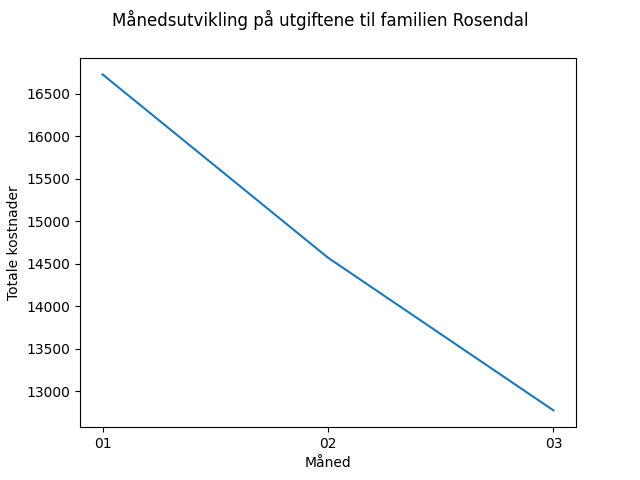
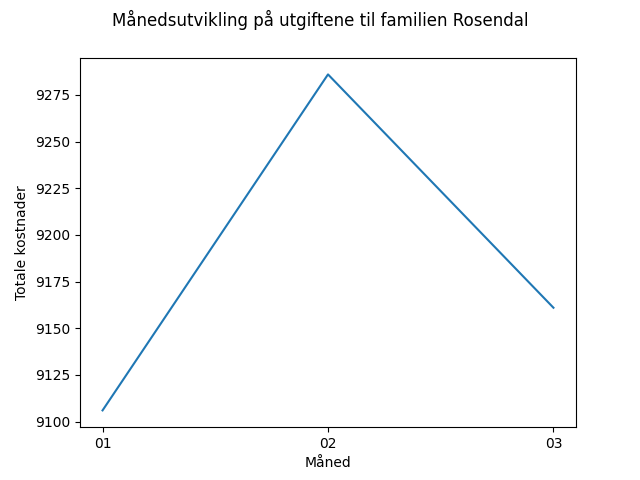
tja

diff --git a/heldags/oppgave-10/main.py b/heldags/oppgave-10/main.py
@@ -2,6 +2,7 @@ import pandas as pd
 from matplotlib import pyplot as plt
 from verktøy import hent_absolutt_bane, hent_måned
 
+
 def print_total_per_type(df: pd.DataFrame):
     """Deloppgave a."""
 
@@ -33,9 +34,12 @@ def lag_månedsutviklingsgraf(df: pd.DataFrame):
     x_verdier = sorted(måneder)
     y_verdier = []
 
+    hverdagsutgifter = {"mat", "klær"}
+
     # Hent månedskostnad per måned
     for måned in x_verdier:
-        y_verdier.append(df[df["Dato"].map(hent_måned) == måned]["Beløp"].sum())
+        riktig_måned = df[df["Dato"].map(hent_måned) == måned]
+        y_verdier.append(riktig_måned[riktig_måned["Type"].isin(hverdagsutgifter)]["Beløp"].sum())
 
     # Opprett en graf
     fig, ax = plt.subplots()
@@ -81,11 +85,12 @@ def main() -> None:
     # Henter banen til csv filen og leser filen
     csv_bane = hent_absolutt_bane("utgifter.csv")
     df = pd.read_csv(csv_bane, delimiter=";", skiprows=1)
-
-    print_total_per_type(df)
-    print_total_per_måned(df)
+    # df["Dato"] = pd.to_datetime(df["Dato"], format="%d.%m.%Y")
+    # print(df["Dato"][0].month)
+    # print_total_per_type(df)
+    # print_total_per_måned(df)
     lag_månedsutviklingsgraf(df)
-    lag_type_utgift_diagram(df)
+    # lag_type_utgift_diagram(df)
 
 
 

diff --git a/heldags/oppgave-10/verktøy.py b/heldags/oppgave-10/verktøy.py
@@ -1,12 +1,13 @@
 import os
 
+
 def hent_absolutt_bane(relativ_bane: str) -> str:
-    return os.path.join(
-        os.path.dirname(os.path.abspath(__file__)), relativ_bane
-)
+    return os.path.join(os.path.dirname(os.path.abspath(__file__)), relativ_bane)
+
 
 def hent_måned(date: str):
     """Hjelpefunksjon for å hente måned fra en streng.
-    Problemet kunne også blitt løst med parsing til datetime objekter ved lesing av csv."""
+    Problemet kunne også blitt løst med parsing til datetime objekter ved lesing av csv.
+    """
 
     return date.split(".")[1]

diff --git a/heldags/oppgave-11/bilkollektiv-reserveringssystem/bilkollektiv/modeller/biler/bil.py b/heldags/oppgave-11/bilkollektiv-reserveringssystem/bilkollektiv/modeller/biler/bil.py
@@ -7,7 +7,7 @@ class Bil(BaseModel):
     type: str = Field(alias="Type")
     modell: str = Field(alias="Modell")
     registreringsnummer: str = Field(alias="Registreringsnummer")
-    pris_per_km: float = Field(alias = "Pris per km")
+    pris_per_km: float = Field(alias="Pris per km")
 
     def __str__(self) -> str:
         data = self.model_dump(by_alias=True)

diff --git a/periode 5/Uke 18/ssb-pedagogikk/main.py b/periode 5/Uke 18/ssb-pedagogikk/main.py
@@ -1,0 +1,8 @@
+import pandas
+
+def main() -> None:
+    pass
+
+
+if __name__ == "__main__":
+    main()
